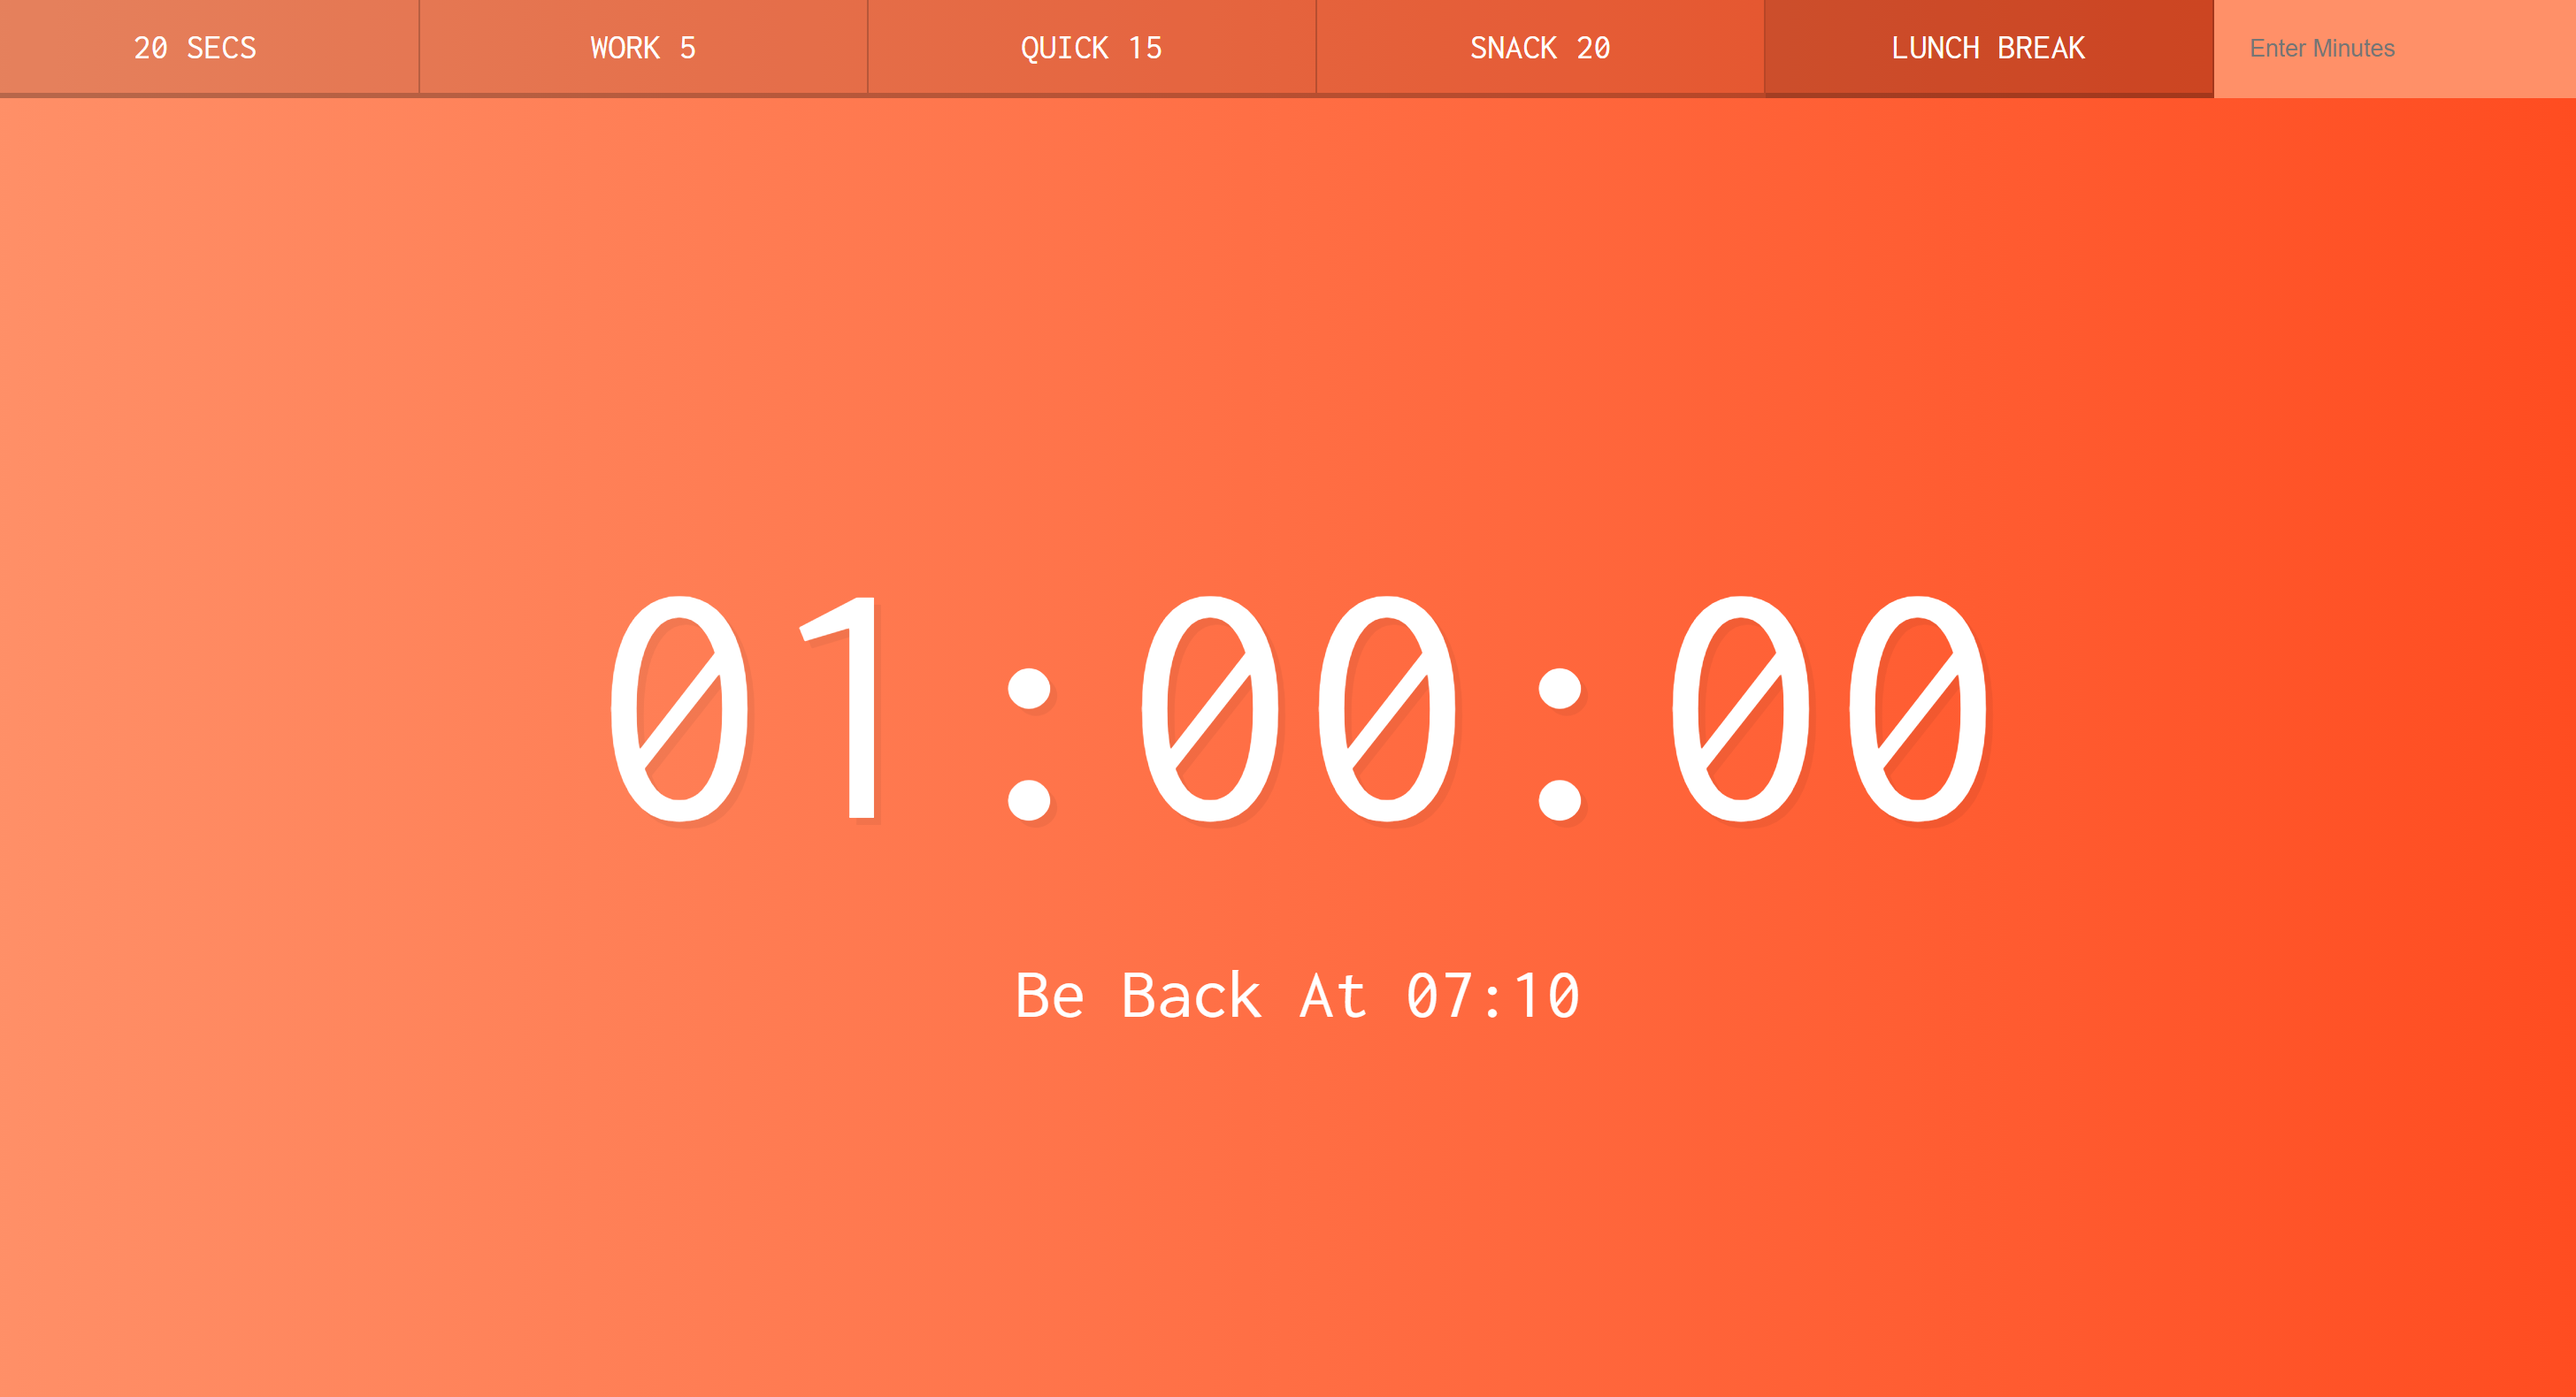
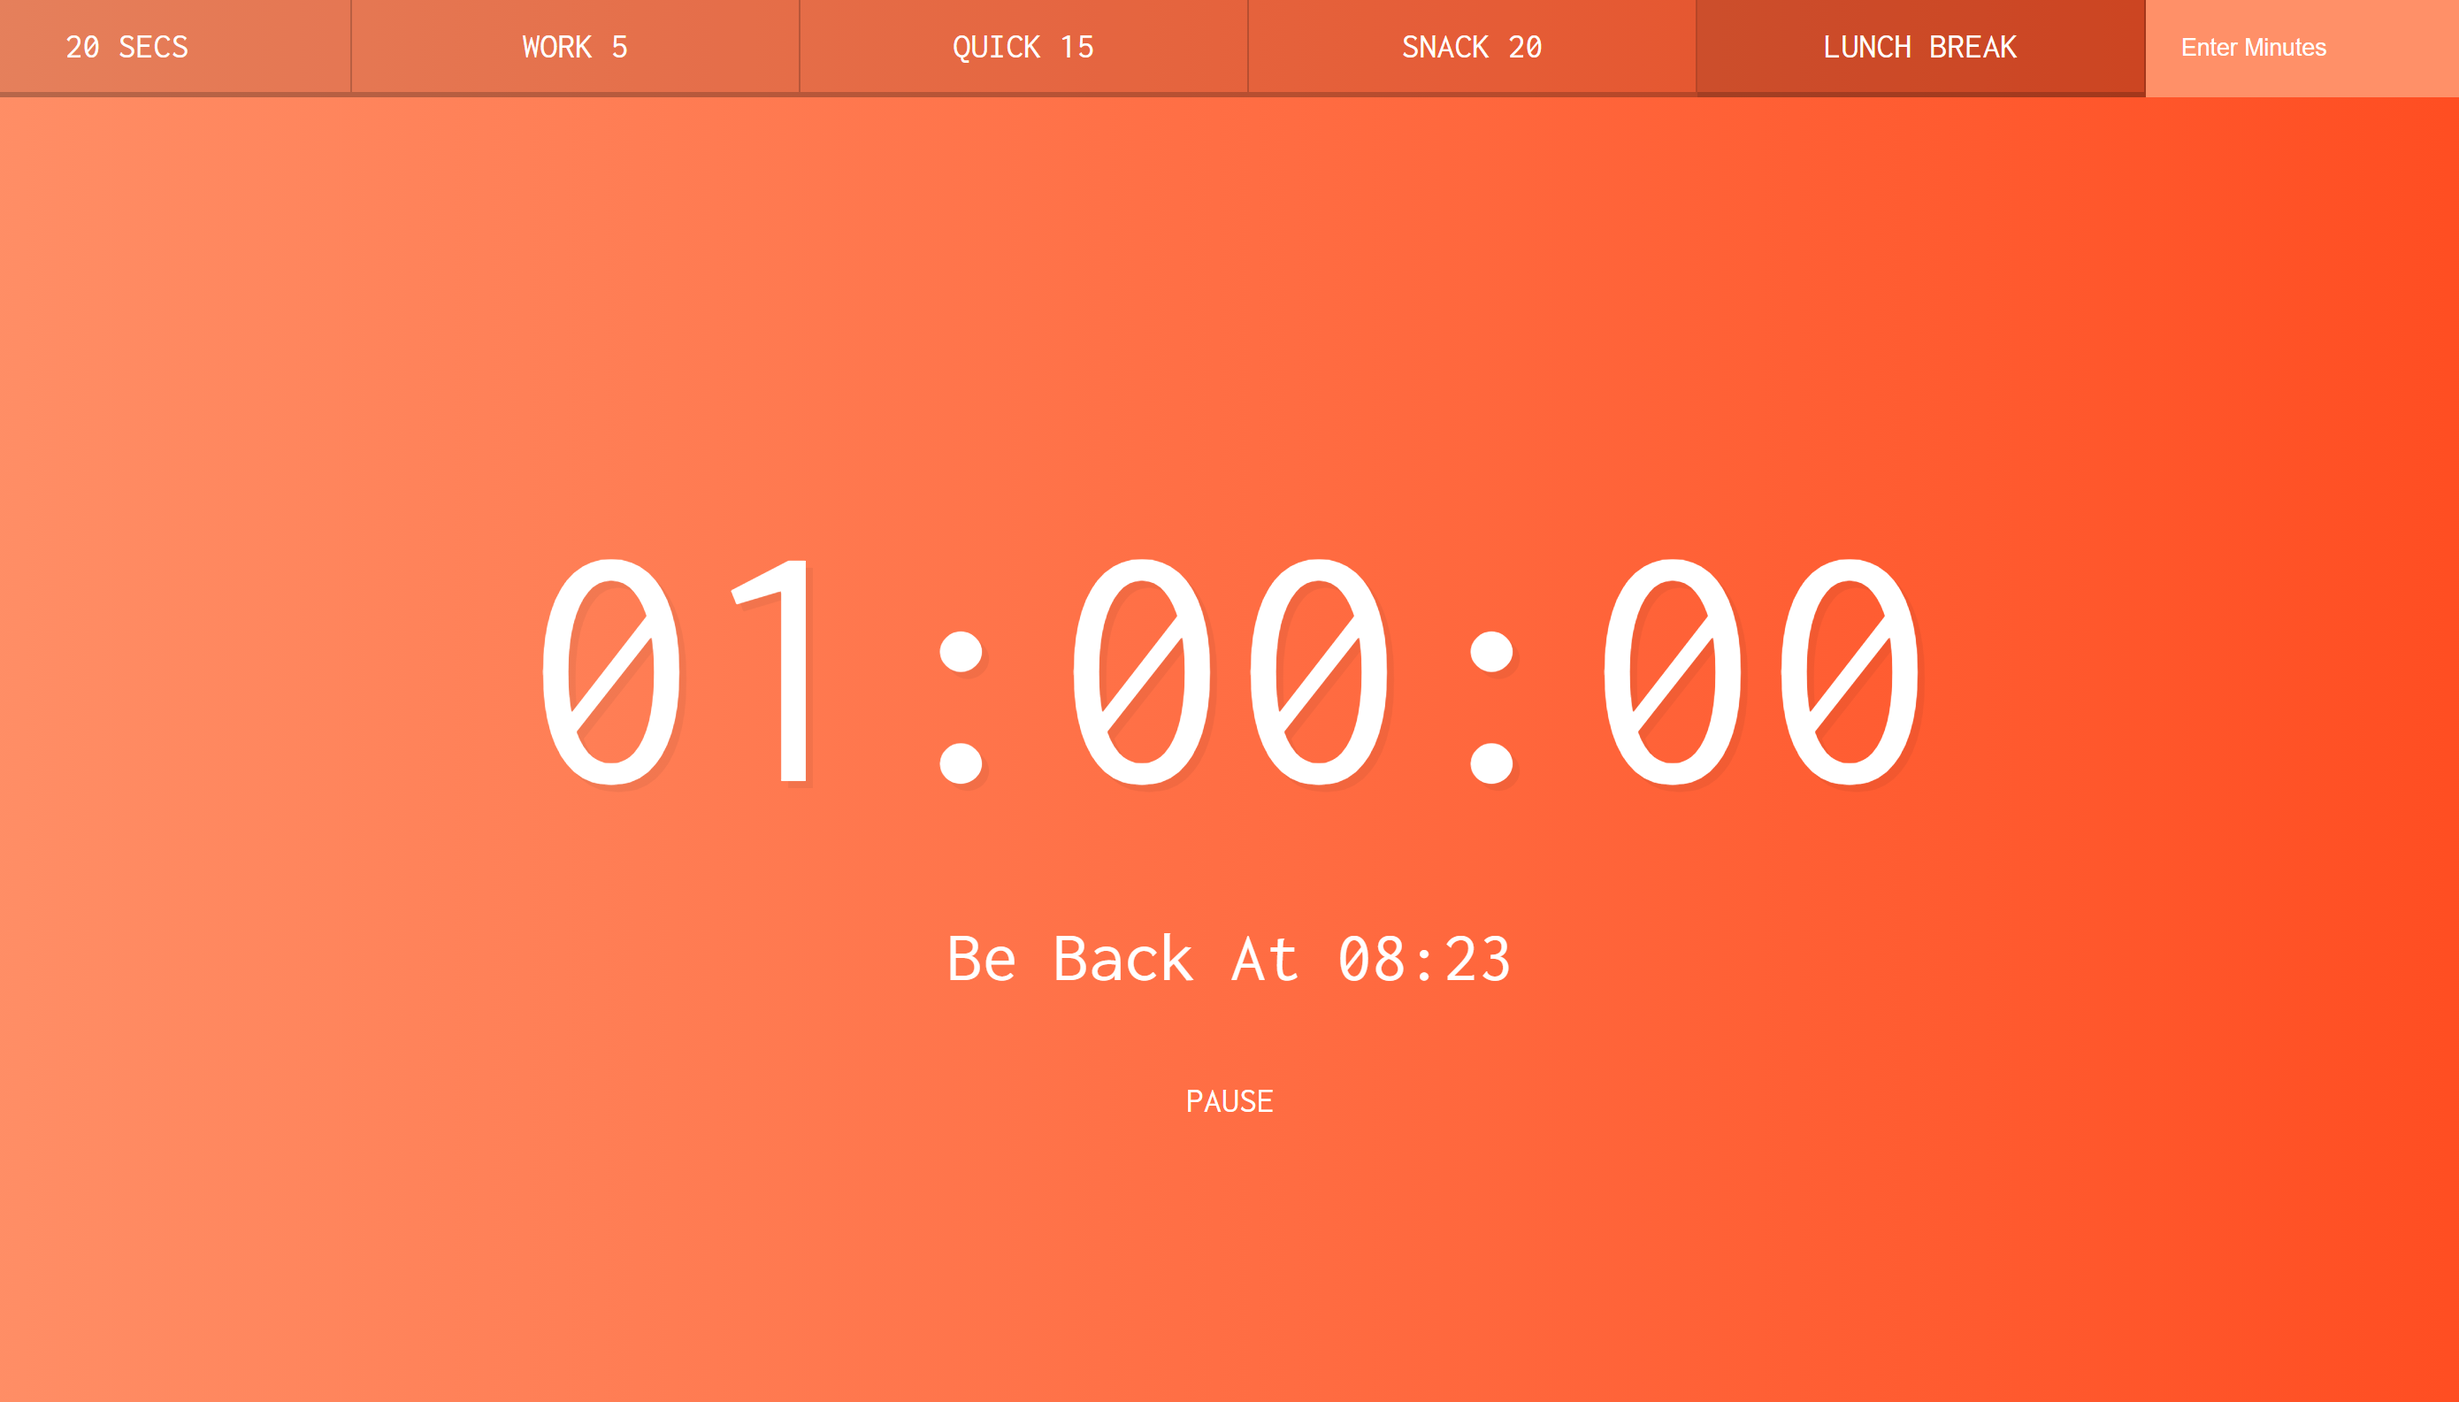
update day29: add feature to pause/resume timer

diff --git a/js30-challenges/29 - Countdown Timer/script.js b/js30-challenges/29 - Countdown Timer/script.js
@@ -1,8 +1,11 @@
 const timerDisplay = document.querySelector(".display__time-left");
 const endTime = document.querySelector(".display__end-time");
 const buttons = document.querySelectorAll("[data-time]");
+const pauseBtn = document.querySelector(".pause");
 
 let countdown;
+let globalSecondsLeft;
+let isPaused = false;
 
 function timer(seconds) {
    //clear existing timers
@@ -10,11 +13,13 @@ function timer(seconds) {
 
    let now = Date.now();
    let then = now + seconds * 1000;
+
    displayTimeLeft(seconds);
    displayEndTime(then);
 
    countdown = setInterval(() => {
       let secondsLeft = Math.round((then - Date.now()) / 1000);
+      globalSecondsLeft = secondsLeft;
       //check if it interval need to stop
       if (secondsLeft < 0) {
          clearInterval(countdown);
@@ -58,6 +63,19 @@ function displayEndTime(timestamp) {
 function startTimer() {
    let seconds = parseInt(this.dataset.time);
    timer(seconds);
+   pauseBtn.textContent = "Pause";
+}
+
+function pauseTimer() {
+   clearInterval(countdown);
+   pauseBtn.textContent = "Resume";
+   isPaused = !isPaused;
+}
+
+function resumeTimer() {
+   timer(globalSecondsLeft);
+   isPaused = !isPaused;
+   pauseBtn.textContent = "Pause";
 }
 
 buttons.forEach((button) => button.addEventListener("click", startTimer));
@@ -67,3 +85,5 @@ document.customForm.addEventListener("submit", function (e) {
    timer(mins * 60);
    this.reset();
 });
+
+pauseBtn.addEventListener("click", () => (isPaused ? resumeTimer() : pauseTimer()));

diff --git a/js30-challenges/29 - Countdown Timer/style.css b/js30-challenges/29 - Countdown Timer/style.css
@@ -91,3 +91,28 @@ input {
 input::placeholder {
    color: white;
 }
+
+div.pause_resume {
+   display: flex;
+   align-items: center;
+   justify-content: center;
+}
+
+.pause {
+   padding: 10px;
+   margin: 0px 50px;
+   background: none;
+   border: 0;
+   cursor: pointer;
+   color: white;
+   font-size: 2rem;
+   text-transform: uppercase;
+   padding: 1rem;
+   font-family: "Inconsolata", monospace;
+   border-radius: 5px;
+}
+
+.pause:hover {
+   background: rgba(0, 0, 0, 0.2);
+   outline: 0;
+}

diff --git a/js30-challenges/29 - Countdown Timer/index.html b/js30-challenges/29 - Countdown Timer/index.html
@@ -23,6 +23,10 @@
       <div class="display">
          <h1 class="display__time-left"></h1>
          <p class="display__end-time"></p>
+         <div class="pause_resume">
+            <button class="pause"></button>
+         </div>
+
       </div>
    </div>
 
